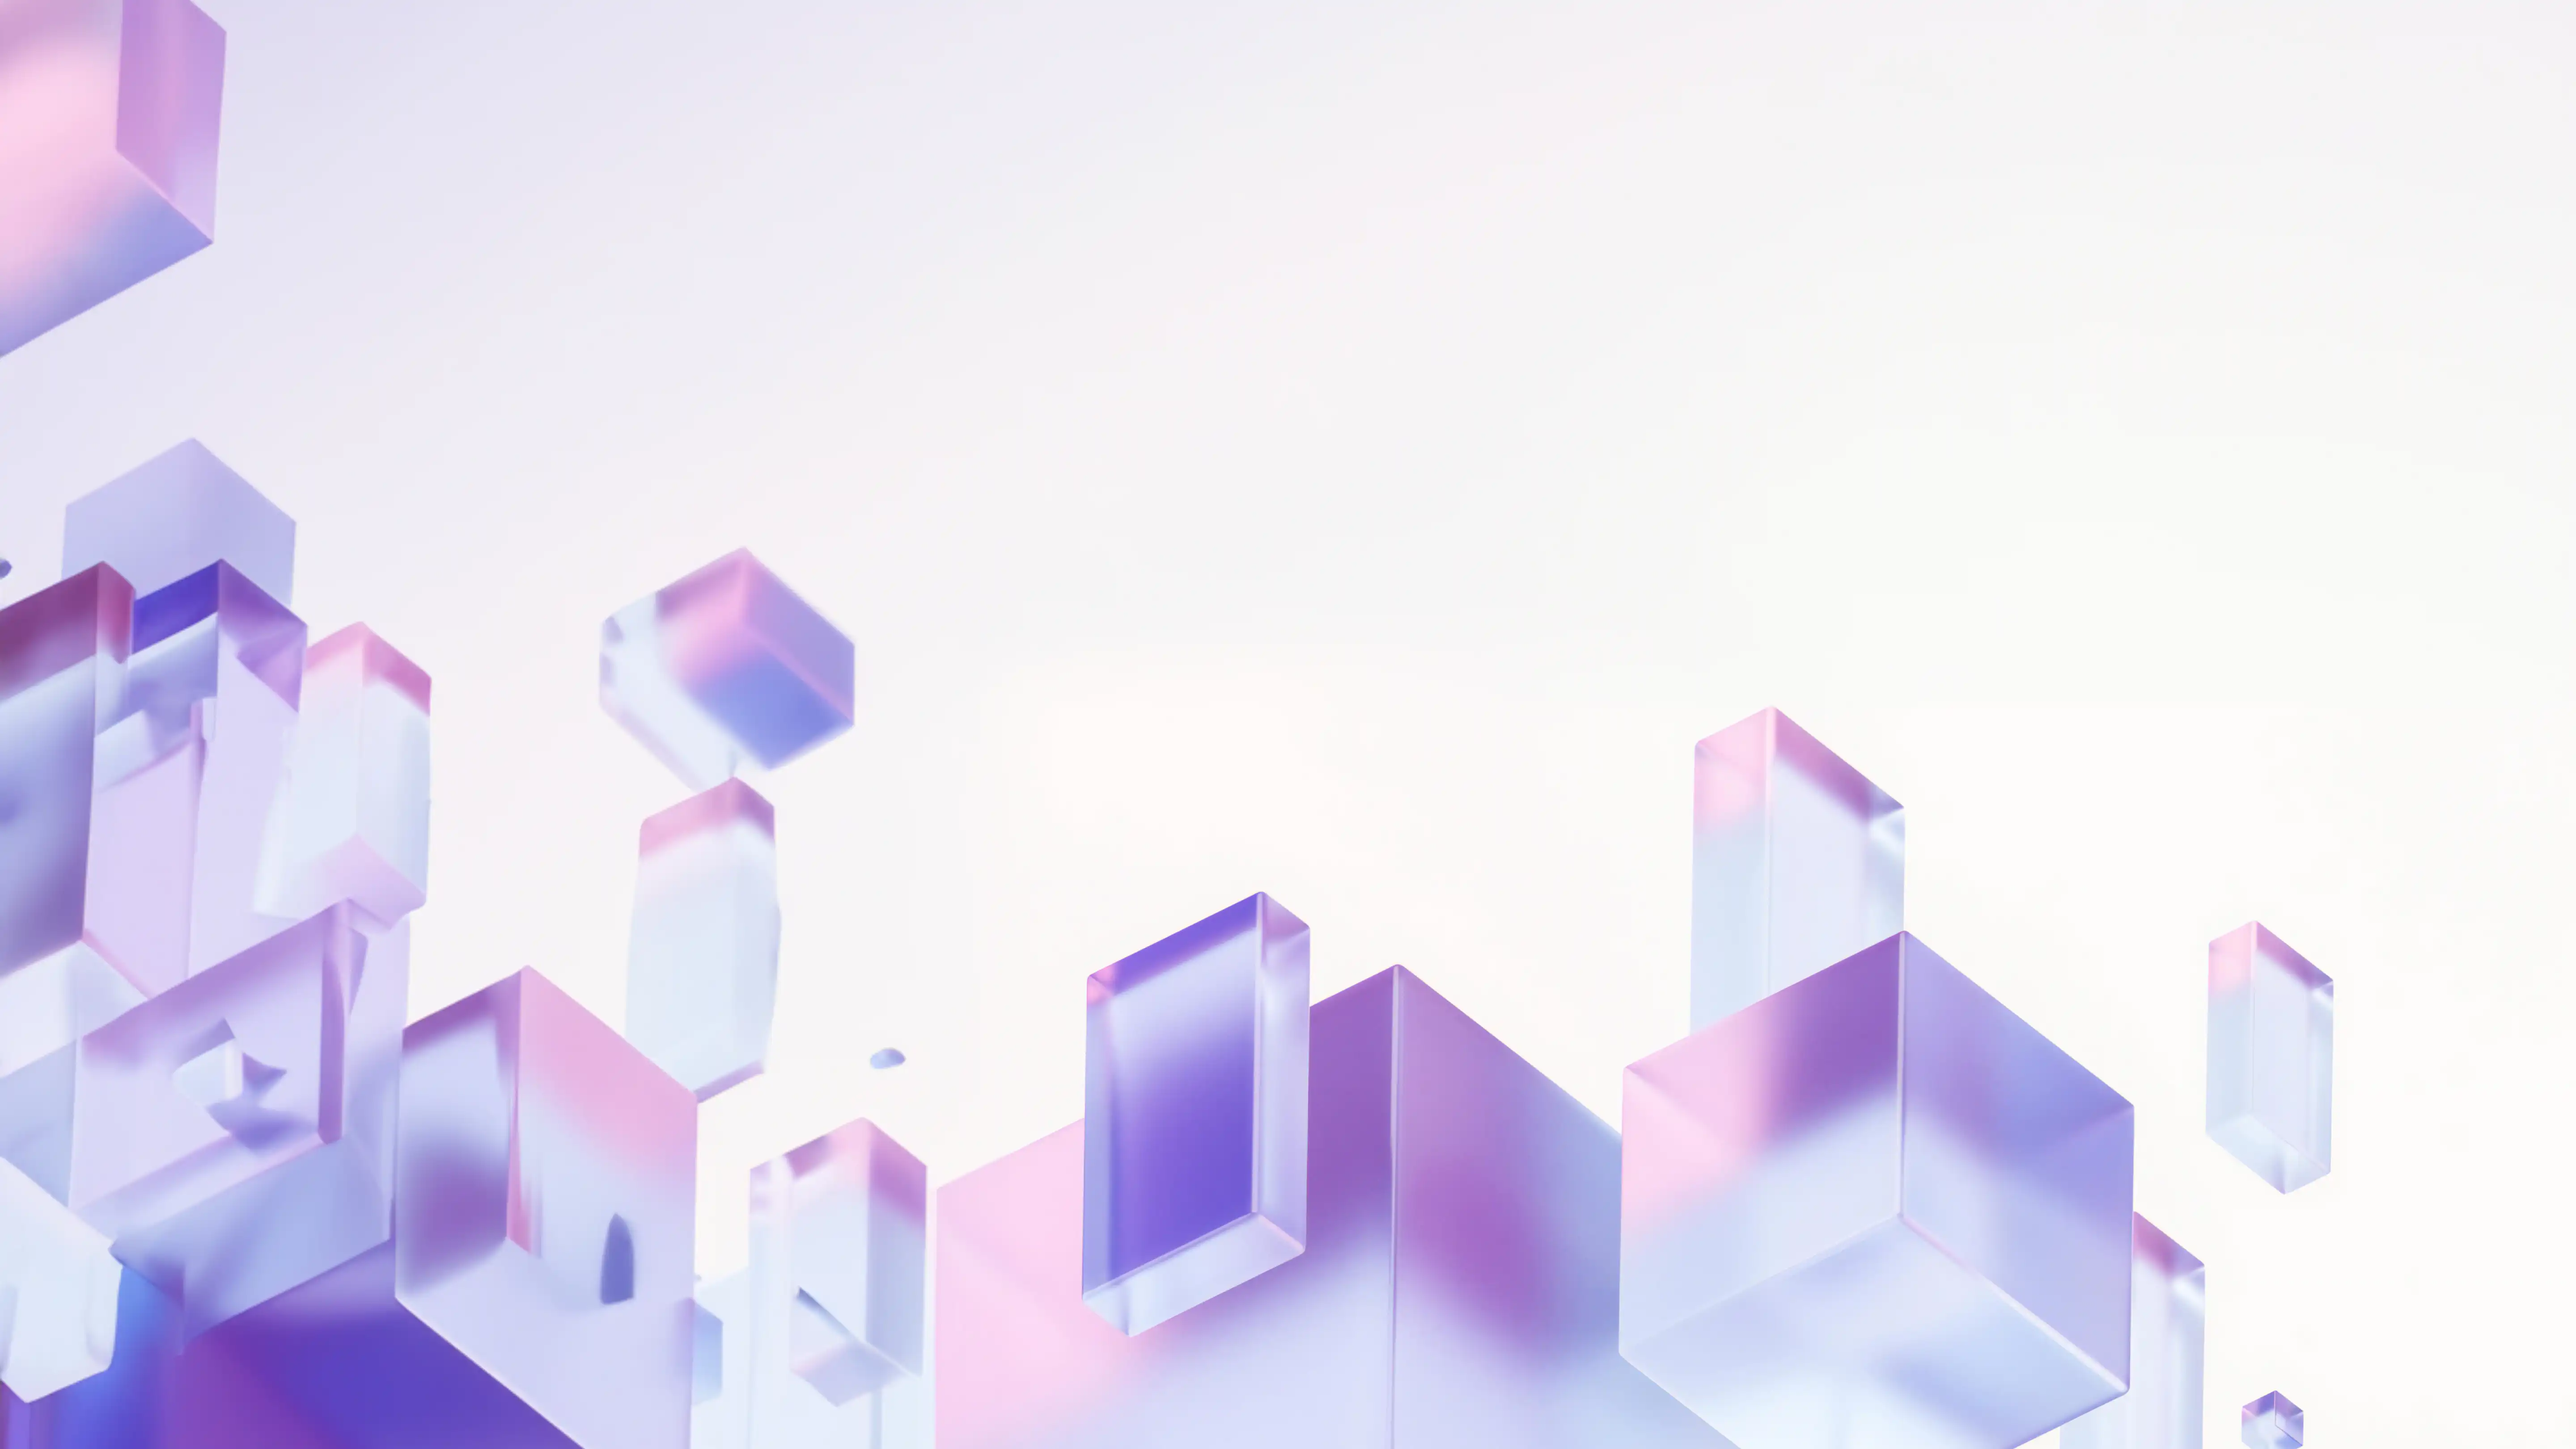
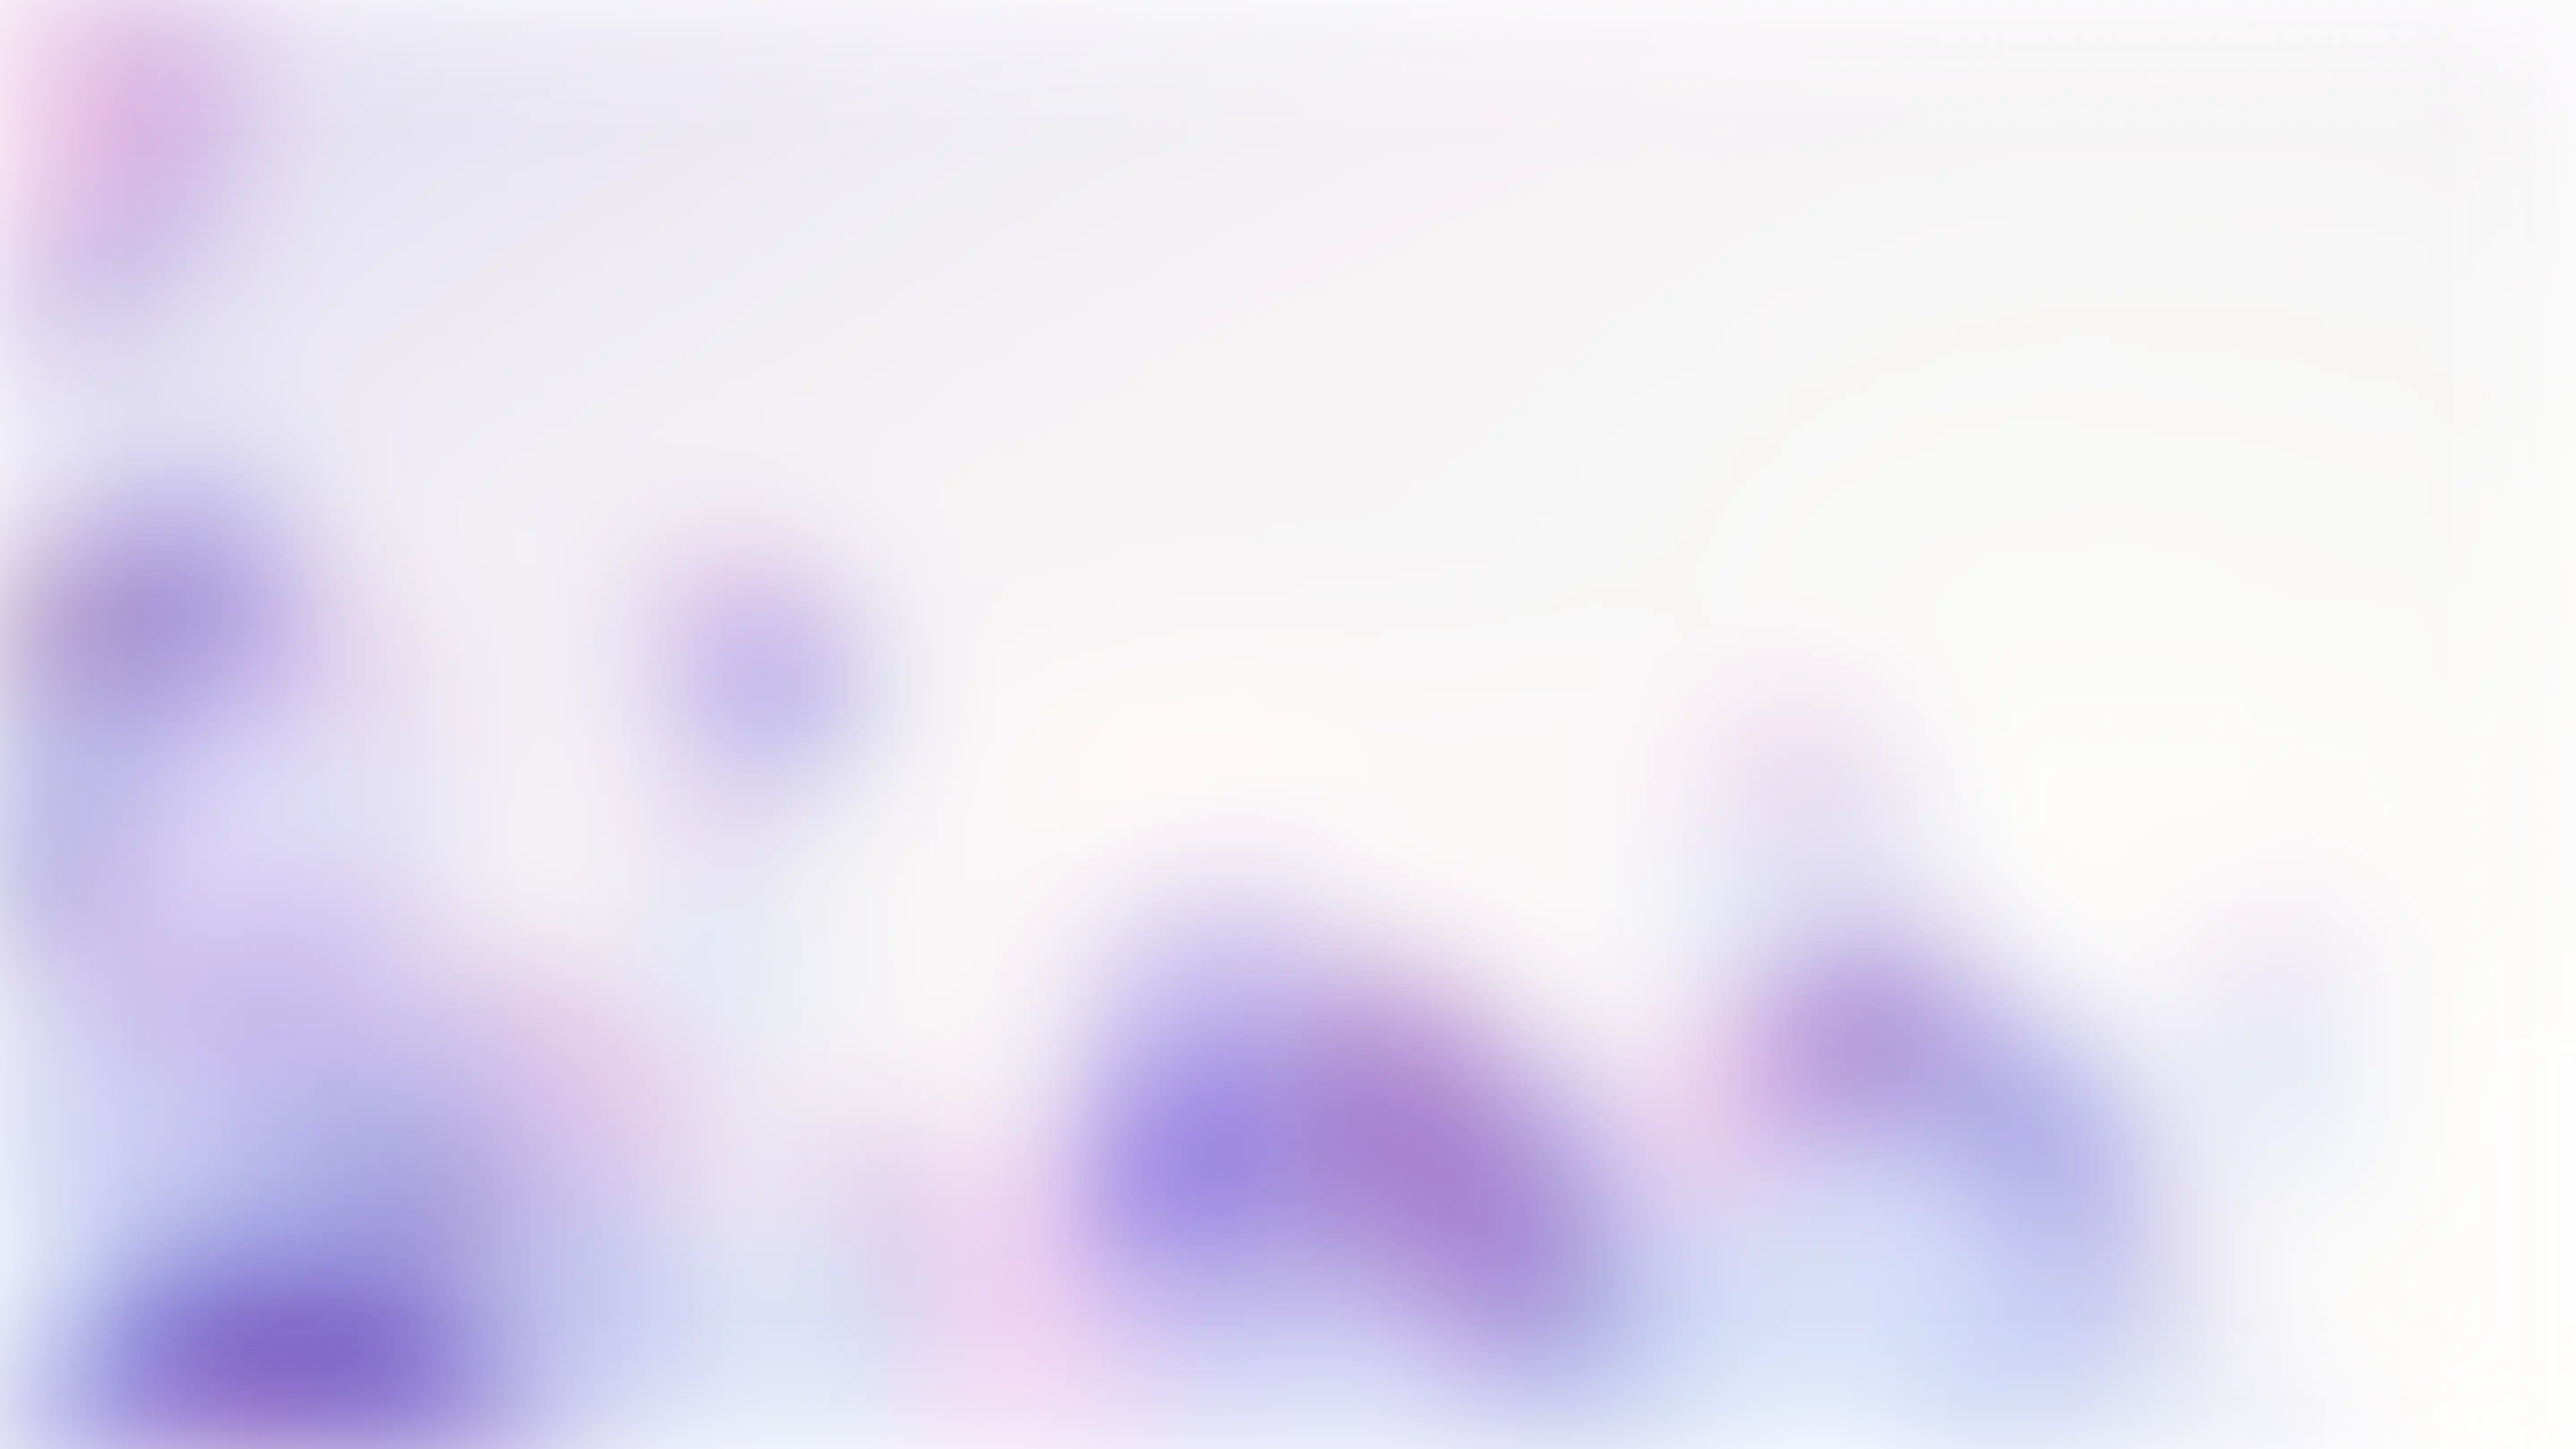
rev: layout bg

diff --git a/src/components/layout/pod/index.tsx b/src/components/layout/pod/index.tsx
@@ -37,38 +37,14 @@ function PodLayout() {
             position: 'relative',
             flexDirection: 'row',
             justifyContent: 'start',
+            backgroundColor: '#fff',
+            backgroundSize: '100% 100%',
+            backgroundAttachment: 'fixed',
+            backgroundPosition: 'left bottom',
+            backgroundImage: 'url(/assets/img/layout/pod-bg.webp)',
           }}
         >
-          <Box
-            sx={{
-              top: 0,
-              left: 0,
-              zIndex: 2,
-              width: '100%',
-              height: '100%',
-              position: 'absolute',
-              filter: 'blur(57.5px)',
-              pointerEvents: 'none',
-              backgroundSize: '100% 100%',
-              backgroundAttachment: 'fixed',
-              backgroundPosition: 'left bottom',
-              backgroundImage: 'url(/assets/img/layout/pod-bg.webp)',
-            }}
-          />
-          <Box
-            sx={{
-              zIndex: 3,
-              width: '100%',
-              height: '100%',
-              display: 'flex',
-              minHeight: '100vh',
-              position: 'relative',
-              flexDirection: 'row',
-              justifyContent: 'start',
-            }}
-          >
-            <Outlet />
-          </Box>
+          <Outlet />
         </Box>
       </AnimatePresence>
     </MantineProvider>
